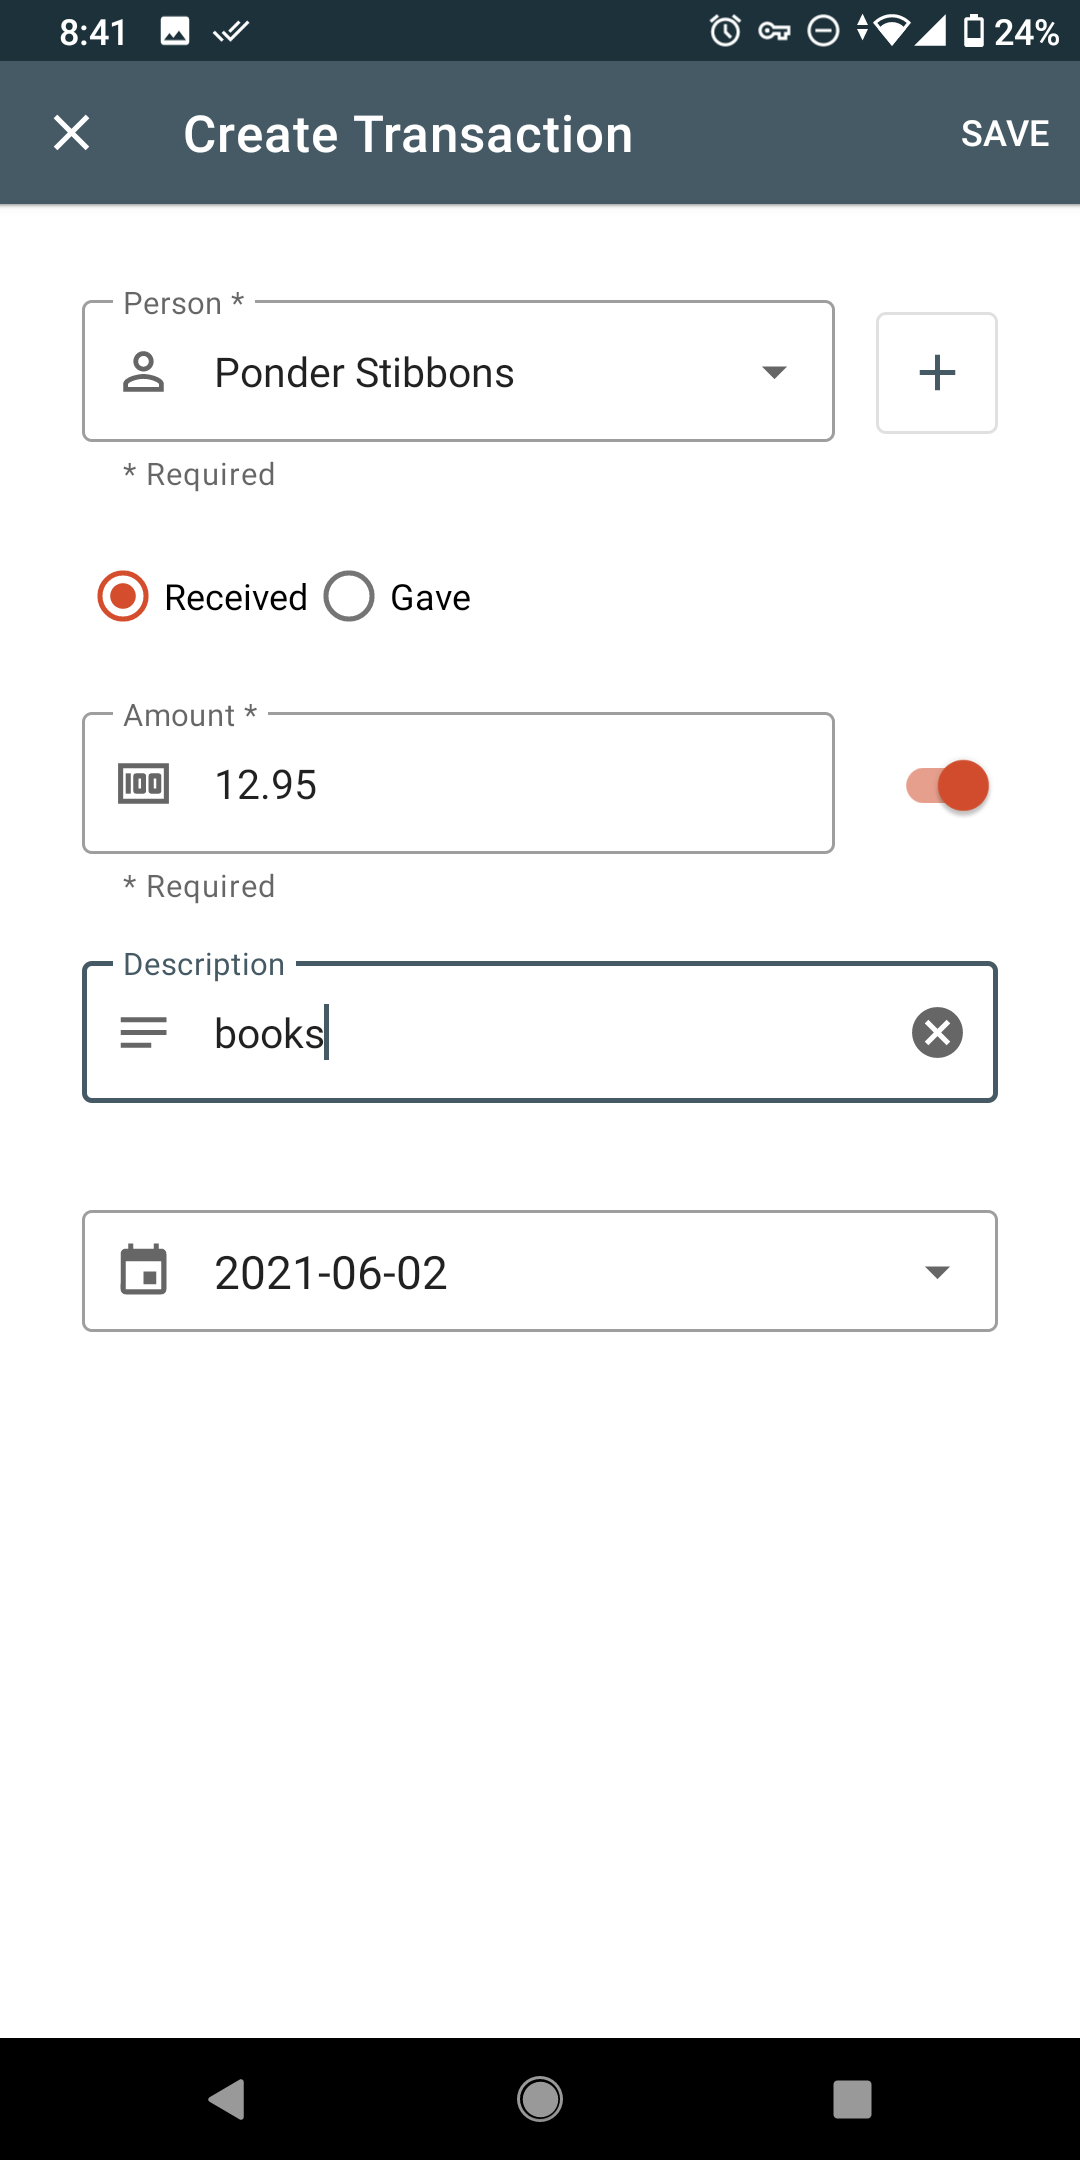
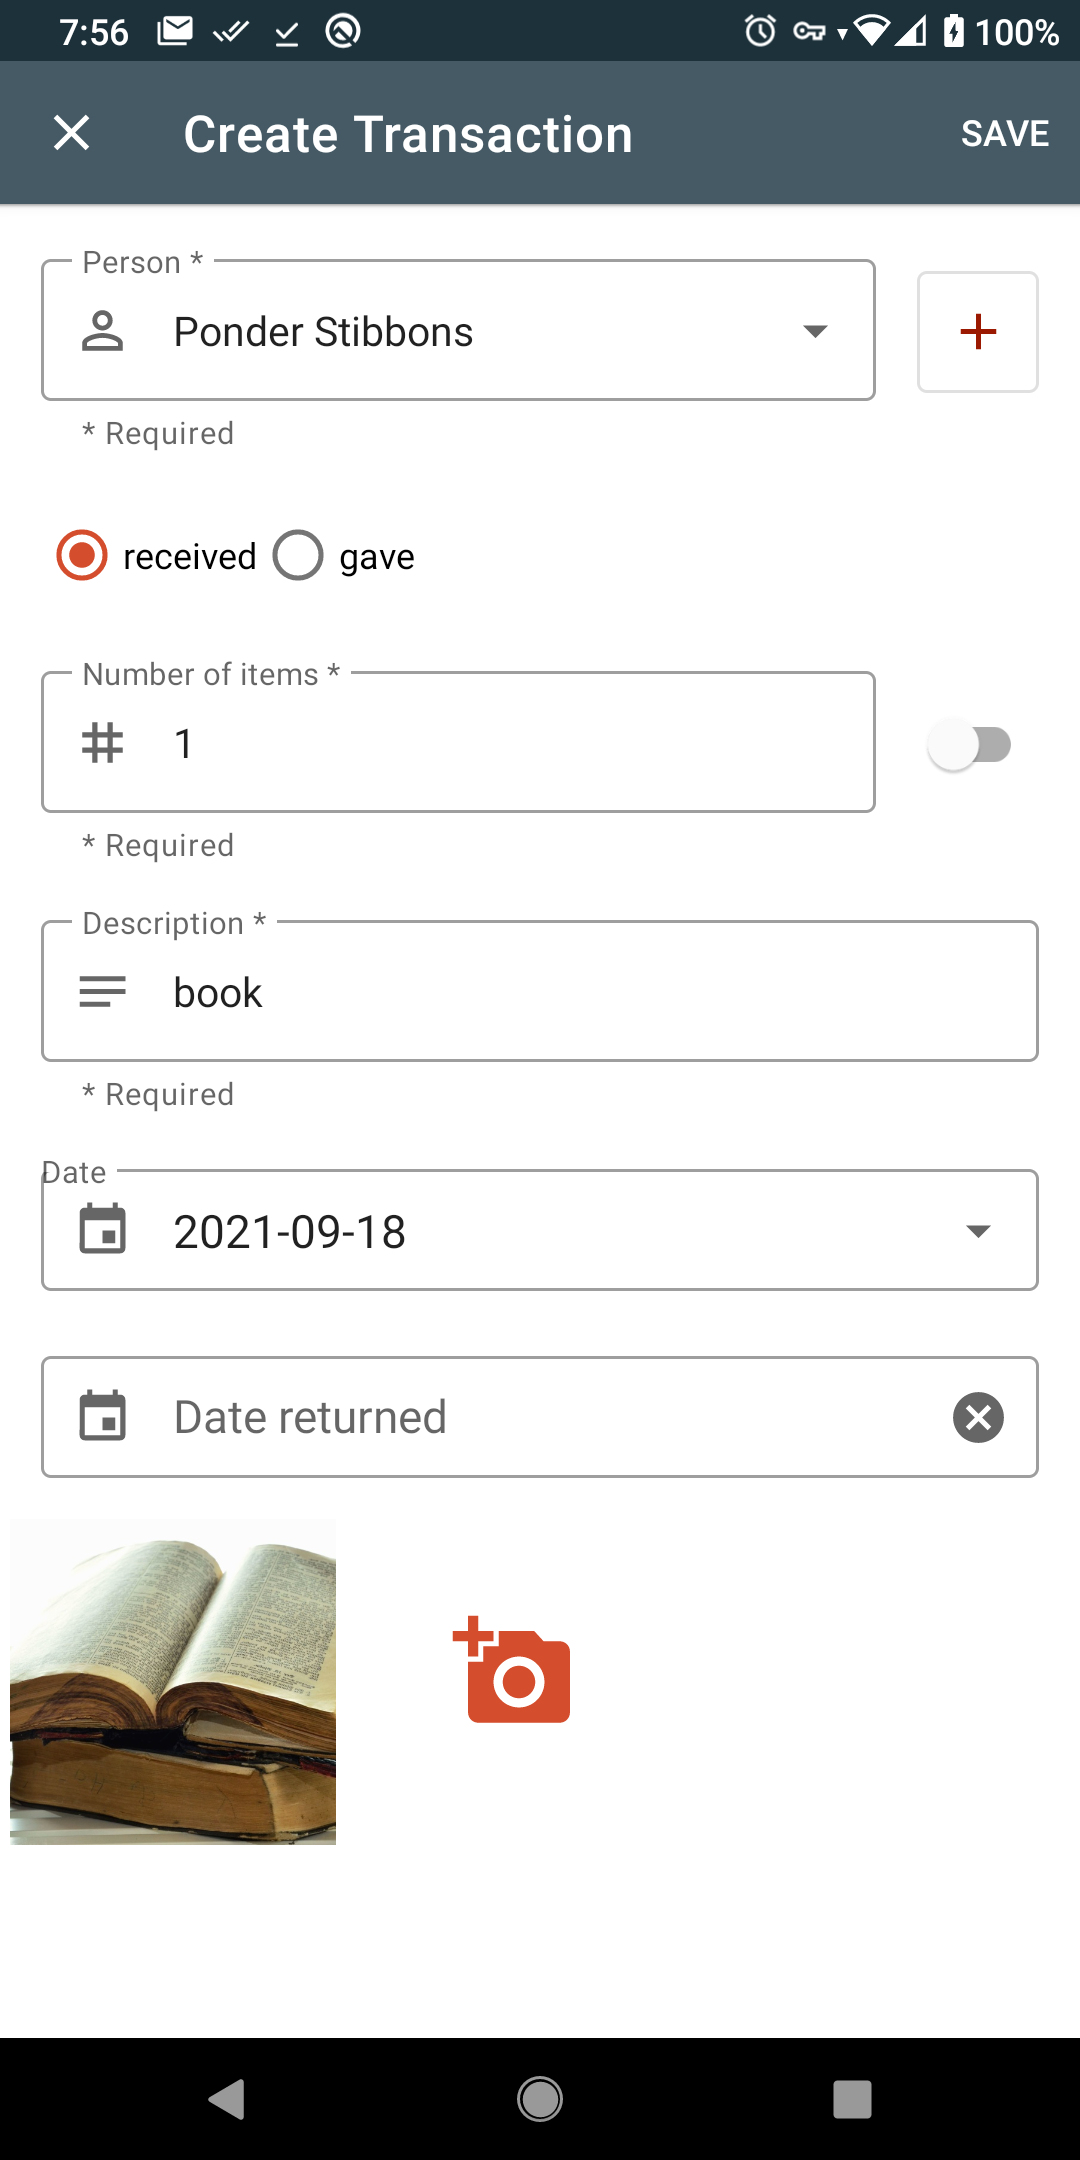
release 1.5.0/13 (w/o translation updates)

diff --git a/CHANGELOG.md b/CHANGELOG.md
@@ -1,11 +1,10 @@
-# v1.6.0
-- transactions can have images attached
-- backups are now a zip file containing the database and all attached images
-
 # v1.5.0
-- use file picker when restoring database
-- backups with date appended (not overwritten anymore)
+- transactions can have images attached (#21)
 - when creating a new transaction and exactly one row is selected, its contents is used as preset (#40)
+- use file picker when restoring database
+- backup files with date appended (not overwritten anymore)
+- backups are now a zip file containing the database and all attached images
+- translations update
 
 # v1.4.1
 - translations update (new: french, italian by [@Edanas](https://hosted.weblate.org/user/Edanas/))

diff --git a/TODO.md b/TODO.md
@@ -1,7 +1,10 @@
-## 1.5.0/13
+## 1.5.1/14
+- rearrange packages
+  - split Utilities (file, image, ...)
+  - group ui elements of fragments (fragment, adapter, viewHolder) in separate packages
+  
+## 1.6.0/15
 - add scrollbar showing the date/month/year while scrolling the transaction list
-- images for transactions (#21)
-  - replace delete btn with long-click popup menu
 
 ## later / unassigned
 - swipe entry to mark as returned or delete
@@ -19,7 +22,7 @@
 
 
 
-# release-checklist (1.4.1/12)
+# release-checklist (1.5.0/13)
 - [x] check github milestone
 - [x] update fastlane changelogs (2x)
 - [x] update CHANGELOG.md
